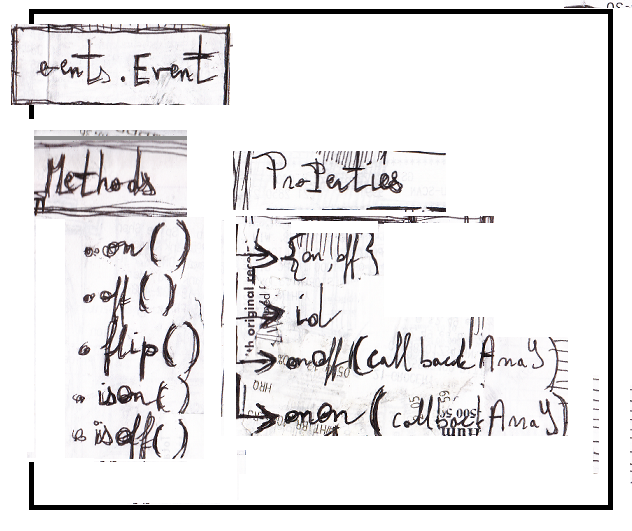
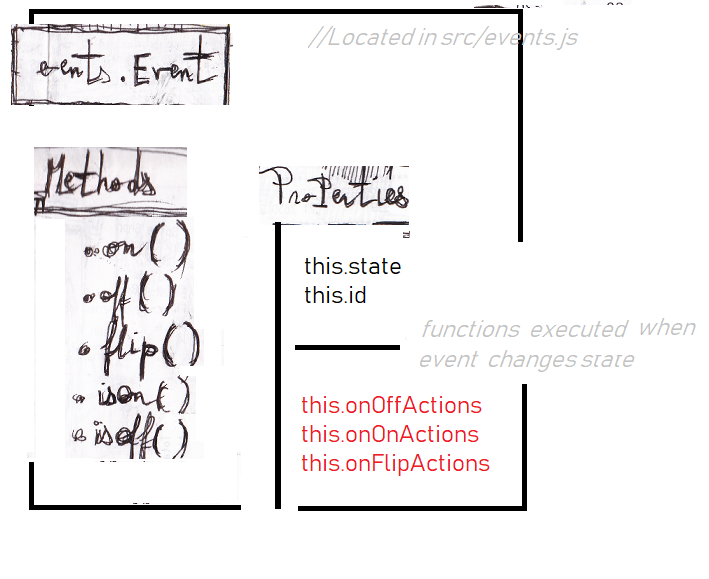
Implemented callback system for change of state on events.Event objects

Changed region(s): [[0.0, 0.0, 0.9921, 0.9642]]

diff --git a/src/dateUtils.js b/src/dateUtils.js
@@ -1,15 +1,13 @@
-
 /******************************************************************************
  * The timeSpanUtils module defines several utilites related to time ranges. 
  * It includes:
  *
- *  - A TimeSpan constructor that verifies that a span defined by two dates 
- *    is valid
+ *  - A TimeSpan object that abstracts the concept of a length of a span 
+ *    between two time markers. 
+ *
+ *  - A Timer object
  *
  ******************************************************************************/
-const validDate = function(date) {
-        return date && Object.prototype.toString.call(date) === "[object Date]" && !isNaN(date);
-}
 
 const timeSpanUtils = (function() {
     const secondSpanMs = 1000,
@@ -18,46 +16,126 @@ const timeSpanUtils = (function() {
             return new Date(monthAsDate.getFullYear(),
                 monthAsDate.getMonth() + 1, 1);
         };
+
     return {
+        isValidDate: function(date) {
+            return date && Object.prototype.toString.call(date) === "[object Date]" && !isNaN(date);
+        },
+        /**************************************************
+         * Includes definition for the following objects: 
+         * - TimeSpan
+         * - Timer
+         *************************************************/
         TimeSpan: function(beginDate, endDate, timeStep) {
+            if (!timeSpanUtils.isValidDate(beginDate)) {
+                timeSpanUtils.invalidDate(beginDate)
+            }
+            if (!timeSpanUtils.isValidDate(endDate)) {
+                timeSpanUtils.invalidDate(endDate)
+            }
+            if (endDate <= beginDate) {
+                throw TimeSpan.invalidDateSpan
+            }
             this.beginDate = beginDate;
             this.endDate = endDate;
             this.step = timeStep;
+
+            return this; 
         },
+
+        Timer: function(settings) {
+            this.settings = settings;
+            this.timer = null;
+            this.fps = settings.fps || 30;
+            this.interval = Math.floor(1000 / this.fps);
+            this.timeInit = null;
+
+            return this;
+        },
+
         day: function() {
             return daySpanMs;
         },
+
         month: function(monthAsDate) {
             let thisMonth = new Date(monthAsDate.getFullYear(), monthAsDate.getMonth(), 1);
             return monthAfter(thisMonth).getTime() - thisMonth.getTime();
-        }
+        },
+
+        /*****************************************************
+         * Errors and exceptions
+         ****************************************************/
+        invalidDate: function(aDate) {
+            throw `${aDate} is not a valid date`
+        },
+        invalidDateSpan: "Invalid Date Span"
     };
 })();
 
-timeSpanUtils.TimeSpan.prototype.setStep = function(step) {
-  this.step = step;
-}
+timeSpanUtils.TimeSpan.prototype = {
 
-timeSpanUtils.TimeSpan.prototype.includes = function(targetDate) {
-    //returns true if the the timespan instance includes the targetDate
-    let targetYear = targetDate.getFullYear();
-    if(this.beginDate.getFullYear() <= targetYear && this.endDate.getFullYear() >= targetYear){
-        if(this.step === "year"){return true;}
-        let targetMonth = targetDate.getMonth();
-        if(this.beginDate.getMonth() <= targetMonth && this.endDate.getMonth() >= targetMonth){
-          if(this.step === "month"){return true;}
-          let targetDay = targetDate.getDate();
-          if(this.beginDate.getDate() <= targetDay && this.endDate.getDate() >= targetDay){
-            if(this.step === "day"){return true;}
-          }
+    setStep: function(step) {
+        this.step = step;
+    },
+
+    includes: function(targetDate) {
+        //returns true if the the timespan instance includes the targetDate
+        let targetYear = targetDate.getFullYear();
+        if (this.beginDate.getFullYear() <= targetYear && this.endDate.getFullYear() >= targetYear) {
+            if (this.step === "year") {
+                return true;
+            }
+            let targetMonth = targetDate.getMonth();
+            if (this.beginDate.getMonth() <= targetMonth && this.endDate.getMonth() >= targetMonth) {
+                if (this.step === "month") {
+                    return true;
+                }
+                let targetDay = targetDate.getDate();
+                if (this.beginDate.getDate() <= targetDay && this.endDate.getDate() >= targetDay) {
+                    if (this.step === "day") {
+                        return true;
+                    }
+                }
+            }
         }
+        return false;
     }
-    return false;
+
 }
 
-//****************************//
-// begin dateUtils namespace //
-//****************************//
+timeSpanUtils.Timer.prototype = 
+{
+    run: function()
+    {
+        let $this = this; 
+        this.settings.run();
+        this.timeInit += this.interval; 
+        this.timer = setTimeout(
+            function(){$this.run()}, 
+            this.timeInit - (new Date).getTime()
+        ); 
+    }, 
+    start: function()
+    {
+        if(this.timer == null){
+            this.timeInit = (new Date).getTime();
+            this.run();
+        }
+    }, 
+    stop: function()
+    {
+        clearTimeout(this.timer); 
+        this.timer = null;
+    }
+} 
+
+
+
+
+
+/******************************************************************************
+* dateUtils namespace 
+*******************************************************************************/
 const dateUtils = (function() {
     let theMonths = ["January", "February", "March", "April", "May", "June", "July", "August", "September", "October", "November", "December"],
         dateOptions = {

diff --git a/test/eventsEvent.js b/test/eventsEvent.js
@@ -1,0 +1,92 @@
+/*******************************************************************
+ * tests for events namespace objects and functions
+ * FranckEinstein90
+ * ----------------
+ *
+ ********************************************************************/
+
+const expect = require('chai').expect;
+const validator = require('validator');
+const events = require('../src/events').events;
+
+describe('Event Object', function() {
+
+    /******************************************************************************
+     * construction tests
+     * ***************************************************************************/
+
+    it("has prorpeties 'state' and 'id'", function() {
+        let ev = new events.Event();
+        expect(ev).to.have.property("state");
+        expect(ev).to.have.property("id");
+    })
+
+    it("is created with state 'on' by default", function() {
+        let ev = new events.Event();
+        expect(ev).to.not.be.undefined;
+        expect(ev.state).to.equal(events.eventState.on);
+        expect(ev.isOn()).to.equal(true);
+    })
+
+    it("can be created with state 'off' by passing an argument", function() {
+        let ev = new events.Event(events.eventState.off);
+        expect(ev.state).to.equal(events.eventState.off);
+    })
+
+    it("has a unique identifier", function() {
+        let ev = new events.Event();
+        expect(validator.isUUID(ev.id)).to.equal(true);
+    })
+
+    describe("events.Event.on()", function() {
+        it("turns on the event", function() {
+            let ev = new events.Event();
+            ev.off();
+            expect(ev.state).to.equal(events.eventState.off);
+            ev.on();
+            expect(ev.state).to.equal(events.eventState.on);
+        })
+    })
+
+})
+
+describe("events.Event.off()", function() {
+        it("turns off the event", function() {
+            let ev = new events.Event();
+            ev.off();
+            expect(ev.state).to.equal(events.eventState.off);
+        })
+
+        it("can be attached to one or several event handlers", function() {
+            let ev = new events.Event(), 
+                localVar = 0;
+ 
+            ev.onOffActions.push( () => localVar += 1);
+            ev.off();
+            expect(ev.state).to.equal(events.eventState.off);
+            expect(ev.isOff()).to.equal(true);
+            expect(localVar).to.equal(1);
+        })
+})
+
+
+describe("events.Event.flip()", function() {
+        it("flips the current state of the event", function() {
+            let ev = new events.Event();
+            ev.off();
+            ev.flip();
+            expect(ev.state).to.equal(events.eventState.on);
+            ev.flip();
+            expect(ev.isOff()).to.equal(true);
+        })
+
+        it("can be attached to event handlers", function(){
+           let ev = new events.Event(), 
+               hereVar = 0; 
+
+           ev.onFlipActions.push(() => hereVar += 1);
+           ev.flip();
+           expect(hereVar).to.equal(1);
+        })
+})
+

diff --git a/test/events.js b/test/events.js
@@ -9,55 +9,6 @@ const expect = require('chai').expect;
 const validator = require('validator');
 const events = require('../src/events').events;
 
-describe('Event Object', function() {
-
-    /******************************************************************************
-     * construction tests
-     * ***************************************************************************/
-
-    it("has prorpeties 'state' and 'id'", function() {
-        let ev = new events.Event();
-        expect(ev).to.have.property("state");
-        expect(ev).to.have.property("id");
-    })
-
-    it("is created with state 'on' by default", function() {
-        let ev = new events.Event();
-        expect(ev).to.not.be.undefined;
-        expect(ev.state).to.equal(events.eventState.on);
-        expect(ev.isOn()).to.equal(true);
-    })
-
-    it("can be created with state 'off' by passing an argument", function() {
-        let ev = new events.Event(events.eventState.off);
-        expect(ev.state).to.equal(events.eventState.off);
-    })
-
-    it("has a unique identifier", function() {
-        let ev = new events.Event();
-        expect(validator.isUUID(ev.id)).to.equal(true);
-    })
-
-
-    describe("events.Event.on()", function() {
-        it("turns on the event", function() {
-            let ev = new events.Event();
-            ev.off();
-            expect(ev.state).to.equal(events.eventState.off);
-            ev.on();
-            expect(ev.state).to.equal(events.eventState.on);
-        })
-    })
-
-    describe("events.Event.off()", function() {
-        it("turns off the event", function() {
-            let ev = new events.Event();
-            ev.off();
-            expect(ev.state).to.equal(events.eventState.off);
-        })
-    })
-});
-
 /*************************************************************
  * events.Registrar
  * FranckEinstein90

diff --git a/src/events.js b/src/events.js
@@ -57,11 +57,18 @@ const events = (function() {
          * **********************************************************/
         Event: function(state) { // events.Event registered at construction
             this.id = generateUUID();
+
+            this.onOffActions = [];
+            this.onOnActions = [];
+            this.onFlipActions = [];
+
             if (state === undefined) {
                 this.state = events.eventState.on;
             } else {
                 this.state = state
             }
+
+            
             eventRegistrar.set(this.id, this.state);
         },
 
@@ -108,11 +115,17 @@ const events = (function() {
 events.Event.prototype = {
 
     on: function() { //event is ongoing
-        this.state = events.eventState.on;
+        if(this.isOff()){
+            this.state = events.eventState.on;
+            this.onOnActions.forEach(x => x());
+        }
     },
 
     off: function() { //event is offgoing
-        this.state = events.eventState.off;
+        if(this.isOn()){
+            this.state = events.eventState.off;
+            this.onOffActions.forEach(x => x());
+        }
     },
 
     isOn : function() {
@@ -121,8 +134,13 @@ events.Event.prototype = {
 
     isOff : function() {
         return (this.state === events.eventState.off);
-    }
+    }, 
 
+    flip : function() {
+        if(this.isOn()){this.off()}
+        else{this.on()}
+        this.onFlipActions.forEach(x => x());
+    }, 
 }
 
 /******************************************************************************
